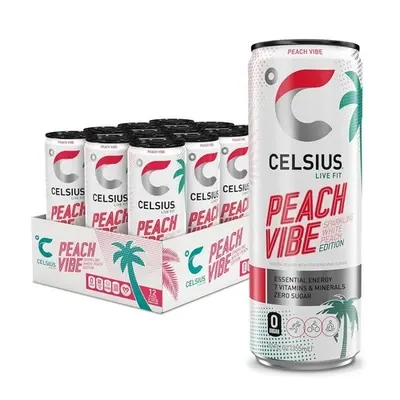
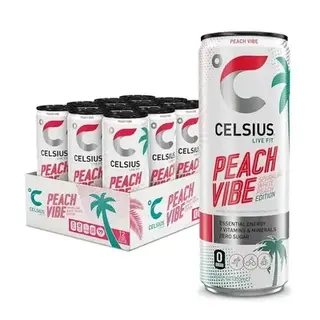
resized images

diff --git a/style.css b/style.css
@@ -2,6 +2,10 @@
   font-family: "DM Sans", sans-serif;
 }
 
+* img {
+  fetchpriority=high;
+}
+
 body {
   margin: 0 auto;
 }
